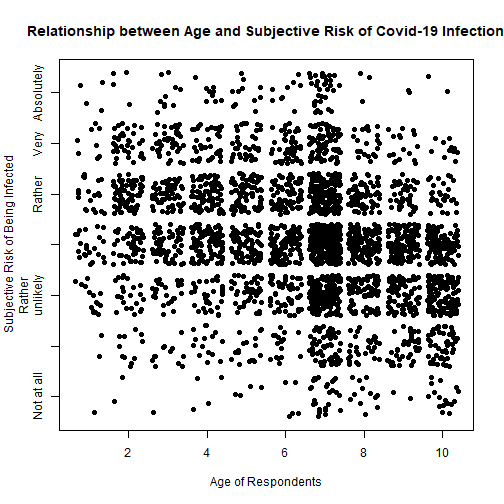
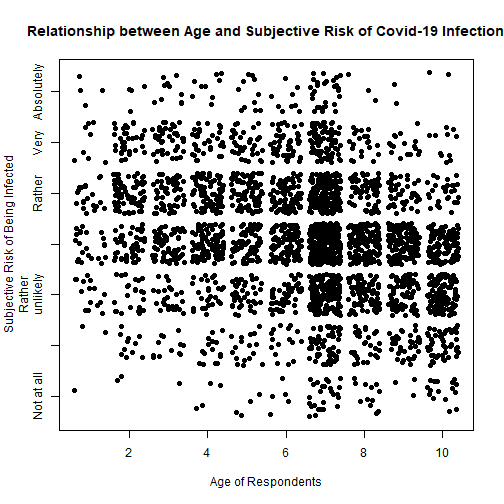
newly knitted

diff --git a/slides/Day3_1_Data_Visualization_1/Day3_1_Data_Visualization_1.html b/slides/Day3_1_Data_Visualization_1/Day3_1_Data_Visualization_1.html
@@ -51,22 +51,25 @@ layout: true
 ---
 
 ## Why should we use data visualization?
-This is no statistics course. And while we also figure that all of you are also familiar with the concept of data visualization, we again want you to list why we think it's essential.
+While we know that all of you are familiar with the concept of data visualization, we want to briefly discuss why we think it's essential to be familiar with and use it.
 
 In general:
 - Good plots can contribute to a better understanding of your analysis results
-  - Plots also help you to understand your data in the first place (see the exploratory analysis session)
+  - Plots also help you to understand your data in the first place (we will talk about this in-depth in the session on *Exploratory Data Analysis*)
+  
 - Generating a plot is easy as you will see
-  - Making good plots, however, can take very long
+  - ... Making good plots, however, can take a while
   
 ---
   
 ## Plots in `R`
 - `R` is fun, and so is creating plots in `R`
+
 - Almost every plot type is supported in `R`
-  - either in your standard installation or in an additional package
+  - either in your standard installation or in through additional packages
+  
 - A large number of exports formats are supported
-  - png, jpg, tiff, svg, bmp, pdf, eps etc.
+  - `.png`, `.jpg`, `.tiff`, `.svg`, `.bmp`, `.pdf`, `.eps`, etc.
   
 ---
 
@@ -78,13 +81,13 @@ In general:
 
 ## Content of the visualization sessions
 .pull-left[
-**Base R visualization**
+**`Base R` visualization**
 - Standard plotting procedures in R
-- scatterplots, line plots, histograms and the like
+- scatter plots, line plots, histograms, and the like
 ]
 
 .pull-right[
-**Tidyverse/ggplot2 visualization**
+**`tidyverse`/`ggplot2` visualization**
 - Modern interface to graphics
 - grammar of graphics
 ]
@@ -94,7 +97,7 @@ There's more that we won't cover:
 
 ---
 
-## Graphics in R
+## Graphics in `R`
 Since the early days, graphics are a first-class citizen in `R`.
 
 A standard `R` installation doesn't require any additional packages to create graphics. It's part of the `graphics` package.
@@ -175,9 +178,9 @@ plot(
   jitter(gp_covid$age_cat, 2), 
   jitter(gp_covid$hzcy001a, 2),
   pch = 16,
-  main = "Relationship between Age and Subjective Likelihood of a COVID-19 Infection",
+  main = "Relationship between Age and Subjective Risk of a COVID-19 Infection",
   xlab = "Age of Respondents",
-  ylab = "Likelihood of Being Infected"
+  ylab = "Subjective Risk of Being Infected"
 )
 ```
 ]
@@ -197,9 +200,9 @@ plot(
   jitter(gp_covid$age_cat, 2), 
   jitter(gp_covid$hzcy001a, 2),
   pch = 16,
-  main = "Relationship between Age and Likelihood of Covid-19 Infection",
+  main = "Relationship between Age and Risk of Covid-19 Infection",
   xlab = "Age of Respondents",
-  ylab = "Likelihood of Being Infected",
+  ylab = "Subjective Risk of Being Infected",
   yaxt = "n"
 )
 axis(
@@ -237,9 +240,9 @@ plot(
   jitter(gp_covid$age_cat, 2), 
   jitter(gp_covid$hzcy001a, 2),
   pch = 16,
-  main = "Relationship between Age and Likelihood of Covid-19 Infection",
+  main = "Relationship between Age and Subjective Risk of Covid-19 Infection",
   xlab = "Age of Respondents",
-  ylab = "Likelihood of Being Infected",
+  ylab = "Subjective Risk of Being Infected",
   yaxt = "n"
 )
 
@@ -370,16 +373,16 @@ my_scatterplot &lt;- recordPlot()
 ---
 
 ## More options and more plots
-We will again turn to this example later this week during the confirmatory analysis session. What you may have learned so far is that already with a few options, you can dramatically change the output of the default plotting function in `R`.
+We will, again, turn to this example later this week during the confirmatory analysis session. What you may have learned so far is that, already with a few options, you can dramatically change the output of the default plotting function in `R`.
 
-The idea is always to initiate the plot first and then add more and more stuff to the plot. In the same logic, e.g., by calling the `axis()` function, you would also delete plot elements.
+The idea is always to initiate the plot first and then add more and more stuff to the plot. By the same logic, e.g., by calling the `axis()` function, you would also delete plot elements.
 
-We could now also adjust some more parameters, such as colors, axis limits, etc. However, this may create a somewhat far-fetched example. Instead, we will learn from other standard plotting functions in `R` and apply more options there.
+We could now also adjust some more parameters, such as colors, axis limits, etc. However, this may create a somewhat far-fetched example. Instead, we discuss other standard plotting functions in `R` and apply more options there.
 
 ---
 
 ## Histograms
-Although we will turn to exploratory data analysis tomorrow, histograms and similar plots are really handy if you want to see the distribution of a variable. For example, in this way, you can show the distribution of the categorized age variable in the GESIS Panel:
+Although we will turn to exploratory data analysis tomorrow, histograms and similar plots are really handy if you want to see the distribution of a variable. For example, in this way, you can show the distribution of the categorized age variable in the *GESIS Panel* COVID-19 survey data:
 
 .tinyish[
 .pull-left[
@@ -397,7 +400,7 @@ hist(gp_covid$age_cat)
 ---
 
 ## Introduce axis limits
-You can then pose axis limits using the option `xlim`, if you are only interested in the range of data.
+You can then pose axis limits using the option `xlim`, if you are only interested in a specific range.
 
 .tinyish[
 .pull-left[
@@ -435,7 +438,7 @@ However, age in our data is categorical data. Therefore, we may want to use a pl
 ---
 
 ## Bar plots
-The command `barplot()` generates a bar plot from a frequency table. So we need to build it first. Fortunately, that's really easy and something you will need all the time. For example, to create a frequency table for the categorized age variable in the GESIS Panel, you can use:
+The command `barplot()` generates a bar plot from a frequency table. So we need to build it first. Fortunately, that's really easy and something you will need all the time. For example, to create a frequency table for the categorized age variable in the *GESIS Panel* COVID-19 survey, you can use:
 
 
 .pull-left[
@@ -460,7 +463,7 @@ barplot(table_age)
 ---
 
 ## Make it colorful: adding blue colors
-Everything's so far was more or less grayish, so we use the example of bar plots to first create blue bars for our barplot. For this purpose, we use the `rgb()` function. You could also add hex codes as character strings (see below).
+Everything so far was more or less grayish, so we use the example of bar plots to create blue bars for our barplot. For this purpose, we use the `rgb()` function. You could also add hex codes as character strings (see below).
 
 .pull-left[
 
@@ -535,7 +538,7 @@ barplot(
 
 ---
 
-## Rstudio addin `colourpicker`
+## *RStudio* addin `colourpicker`
 Choosing colors is not always an easy task. The `colourpicker` add-in for `Rstudio` helps you choose colors.
 
 
@@ -600,7 +603,7 @@ If the passed table object is two-dimensional, a conditional bar plot is created
 ---
 
 ## Conditional barplot: stacked
-The bar plot for a two-dimensional table object can either be stacked (default).
+The bar plot for a two-dimensional table object can either be stacked (default)...
 
 .pull-left[
 
@@ -616,7 +619,7 @@ barplot(table_age_likelihood)
 ---
 
 ## Conditional barplot: side by side
-Or it can be plotted side by side.
+... or it can be plotted side by side.
 
 .pull-left[
 
@@ -653,7 +656,7 @@ Densities
 ]
 
 .pull-right[
-If you'd really want to see all plotting options in standard `R`, you could skim through the `graphics::` namespace:
+If you really want to see all plotting options in standard `R`, you could skim through the `graphics::` namespace:
 
 &lt;img src="./pics/all_plotspng.png" width="1164" style="display: block; margin: auto;" /&gt;
 ]
@@ -662,7 +665,7 @@ If you'd really want to see all plotting options in standard `R`, you could skim
 ---
 
 ## One last detail: the `par()` and `dev.off()` function
-`par()` stands for graphical parameters and is called before the actual plotting function. It prepares the graphics device in `R` to know: hey, plot(s) incoming. So a lot can be done within this function, the most often used options are for indeed telling the device that 2, 3, 4, or `x` plots have to be printed in the device.
+`par()` stands for graphical parameters and is called before the actual plotting function. It prepares the graphics device in `R` and tells it: "Hey, plot(s) incoming!" A lot can be done within this function. The most commonly used options are for "telling" the device that 2, 3, 4, or `x` plots have to be printed.
 
 We have used the option `mfrow` before by telling it how many rows (the first value in the vector) and columns (the second value in the vector) we aim to plot. 
 
@@ -678,7 +681,7 @@ One caveat of using this function is that we actively have to turn off the devic
 dev.off()
 ```
 
-This afternoon, we will learn from the `patchwork` package, which makes assembling plots much easier.
+This afternoon, we will learn about the `patchwork` package which makes assembling plots much easier.
 
 ---
 
@@ -691,7 +694,7 @@ class: center, middle
 ---
 
 ## Integrating plots in functions/packages
-Creating plots in `R` is not complicated. Since the real advantage of `R` is the community with additional packages and routines, it's clear that the real benefit is this accessible interface to plotting techniques.
+Creating plots in `R` is not complicated. Since the key advantage of `R` is the wealth of functionalities provide by additional packages, this accessible interface to plotting techniques is a real benefit.
 
 This is why `plot()` often is a generic function not only to plot data directly. Some statistical models have their own plotting method called when you use the `plot()` command.
 
@@ -719,7 +722,7 @@ plot(linear_model)
 ---
 
 ## Added-value plotting methods in other packages
-What is more is that other package developers provide new `R` functions that, in the background, make use of `R`'s plotting techniques. These packages rescue you from writing lengthy `R`-scripts just to get a specific layout of a plot.
+Importantly, package developers provide new `R` functions that, in the background, make use of `R`'s plotting techniques. These packages save you from writing lengthy `R`-scripts just to get a specific layout of a plot.
 
 ---
 
@@ -767,11 +770,11 @@ gp_covid %&gt;%
 ---
 
 ## But sometimes that's not enough
-In a way, ready-made functions for beautiful plots requires again to learn new commands, options, and the like. And sometimes, you may have requirements that cannot even be fulfilled with these functions anyway.
+In a way, ready-made functions for beautiful plots require you to, again,learn new commands, options, etc. And sometimes, you may have requirements that cannot even be fulfilled with these functions anyway.
 
-These functions help combine information from different variables in a dataset. However,  sometimes you also want to re-create the same old boring graph repeatedly, e.g., for plotting results from similar but different statistical models.
+These functions help combine information from different variables in a dataset. However, sometimes you may also want to re-create the same old boring graph repeatedly, e.g., for plotting results from similar but different statistical models.
 
-So may want to exploit your skills on looping.
+For this purpose you can make use of your looping skills.
 
 ---
 
@@ -829,7 +832,7 @@ fancy_pants_margins_plot &lt;- function (my_models) {
           my_models[[model]],
           main = model
           
-          # add plot parameter(s) whichever you want
+          # you can add plot parameter(s) to your liking
           # ...
           
         )
@@ -856,7 +859,7 @@ fancy_pants_margins_plot(linear_models)
 ---
 
 ## Outlook on the next session
-In the next session, we will work with plotting techniques using `ggplot2`. We will learn an alternative and more comfortable way of plotting data or results from different groups, e.g., by exploiting so-called facets.  However, the trade-off is that the input data for the plots require more attention and simply more preparation.
+In the next session, we will work with plotting techniques using `ggplot2`. We will learn an alternative and more comfortable way of plotting data or results from different groups, e.g., by making use of so-called facets.  However, the trade-off is that the input data for the plots require more attention and simply more preparation.
 
 ---
 
@@ -865,18 +868,18 @@ It's nice that `R` provides such pleasant plotting opportunities.
 
 However, to include them in our papers, we need to export them.
 
-As said in the beginning, numerous export formats are baked-in into `R`.
+As said in the beginning, numerous export formats are available in `R`.
 
 ---
 
-## Export with Rstudio
+## Export with *RStudio*
 
 &lt;img src="./pics/saveGraphic.PNG" width="1077" style="display: block; margin: auto;" /&gt;
 
 ---
 
 ## Saving graphics via a command
-Alternatively also with the commands `png()`, `pdf()` or `jpeg()`, for example. For this purpose, you first have to wrap the plot call between one of those functions and a `dev.off()`call.
+Alternatively, you can also export plots with the commands `png()`, `pdf()` or `jpeg()`, for example. For this purpose, you first have to wrap the plot call between one of those functions and a `dev.off()`call.
 
 
 ```r
@@ -904,13 +907,13 @@ It's that easy.
 ---
 
 ## My personal note on R base plotting
-Hopefully, you may have gotten the feeling that already `R`'s base techniques for plotting are well-suited for daily data exploration. On some days, `hist()` is my most often used command.
+Hopefully, you have gotten the feeling that the `base R` base techniques for plotting already are well-suited for your daily data exploration needs. Full disclosure: On some days, `hist()` is my most often used command.
 
-But to be honest: I use all the other functions not that often, particularly from all the added-value packages for plotting. The syntax is sometimes cumbersome with all the `par()`  or `dev.off()` calls, and manipulating parameters simply feels 'old'.
+But to be honest: I do not use all the other functions that often, particularly those from all the added-value packages for base plotting. The syntax is sometimes cumbersome with all the `par()`  or `dev.off()` calls, and manipulating parameters simply feels somewhat "outdated".
 
-In the next session, we will learn more modern techniques using `ggplot2`. Yet, we still believe that it is worthwhile to get comfortable with base `R` plotting since `ggplot2` sometimes can merely too much for simple data exploration.
+In the next session, we will learn more modern techniques using `ggplot2`. Yet, we still believe that it is worthwhile to become comfortable with `base R` plotting since `ggplot2`, e.g., may sometimes be "too much" for simple data exploration.
 
-**In the end, it's also a matter of taste.**
+**As so often, in the end, it's also a matter of taste.**
 
 ---
 
@@ -923,7 +926,7 @@ class: center, middle
 ---
 
 # Extracurricular activities
-Alright, so you may have gotten the feeling that standard `R` graphics are somewhat antiquated. But this need not be true. Have a look at [this excellent and also short blog post](https://www.jumpingrivers.com/blog/styling-base-r-graphics/). The post shows that even with standard `R` you can create great and publication-ready graphics.
+Alright, so you may have gotten the feeling that standard `R` graphics are somewhat antiquated. But this need not be true. Have a look at [this excellent and also short blog post](https://www.jumpingrivers.com/blog/styling-base-r-graphics/) about styling `base R` graphics. The post shows that, even with standard `R`, you can create great and publication-ready graphics.
     </textarea>
 <style data-target="print-only">@media screen {.remark-slide-container{display:block;}.remark-slide-scaler{box-shadow:none;}}</style>
 <script src="https://remarkjs.com/downloads/remark-latest.min.js"></script>
